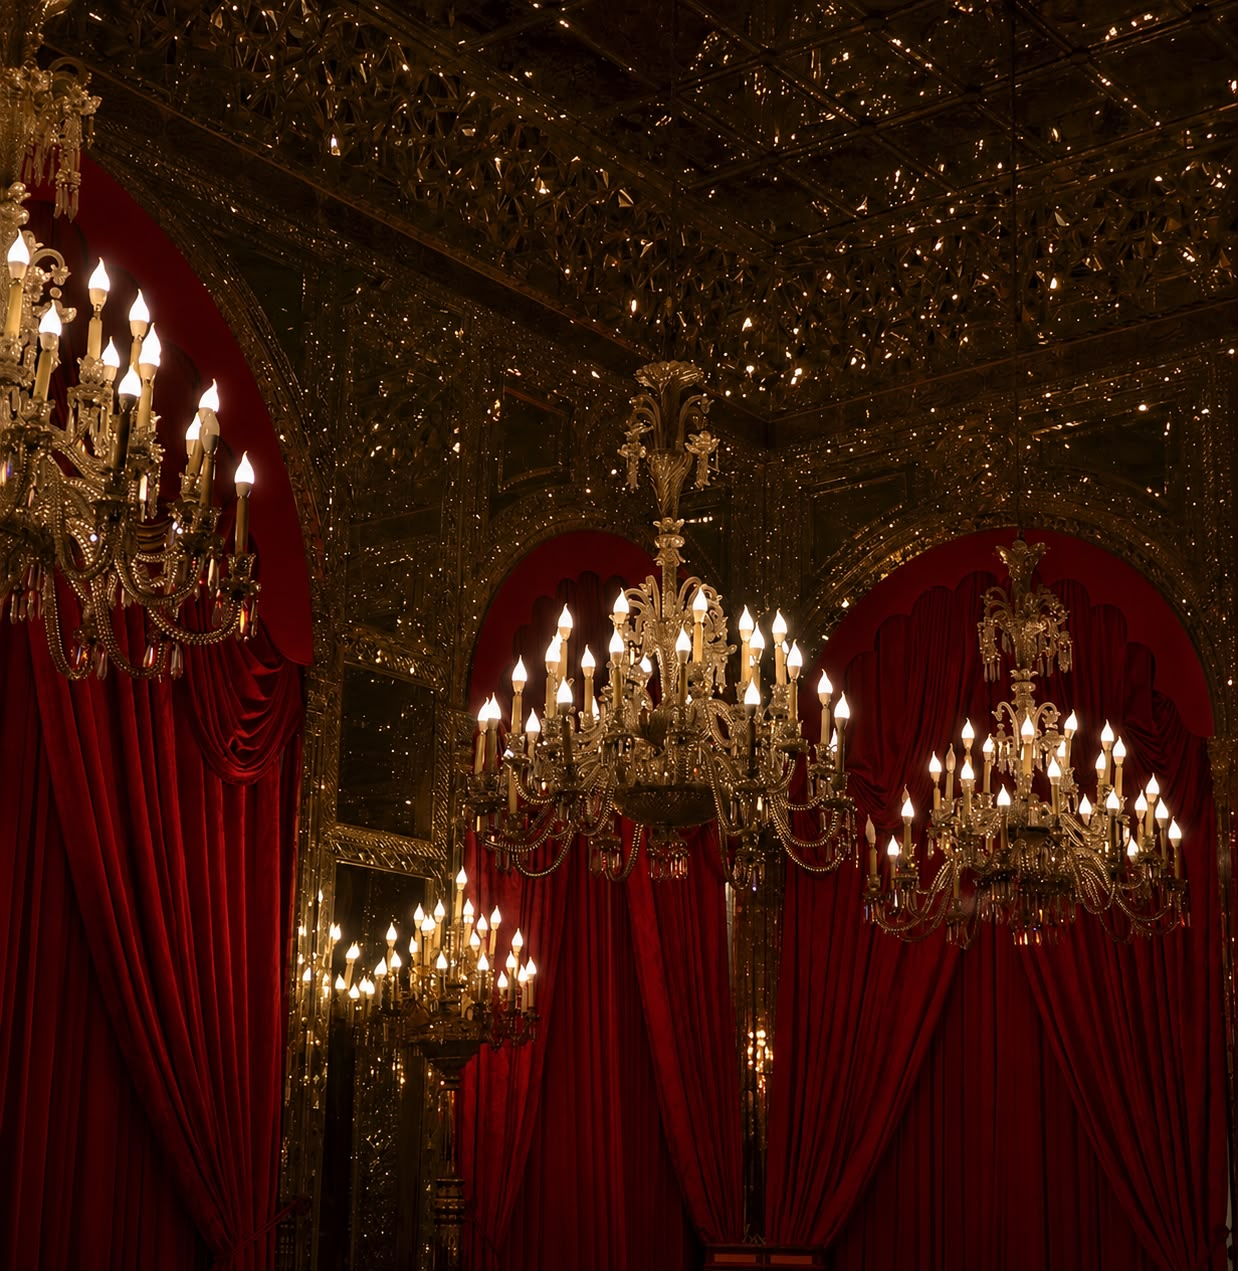
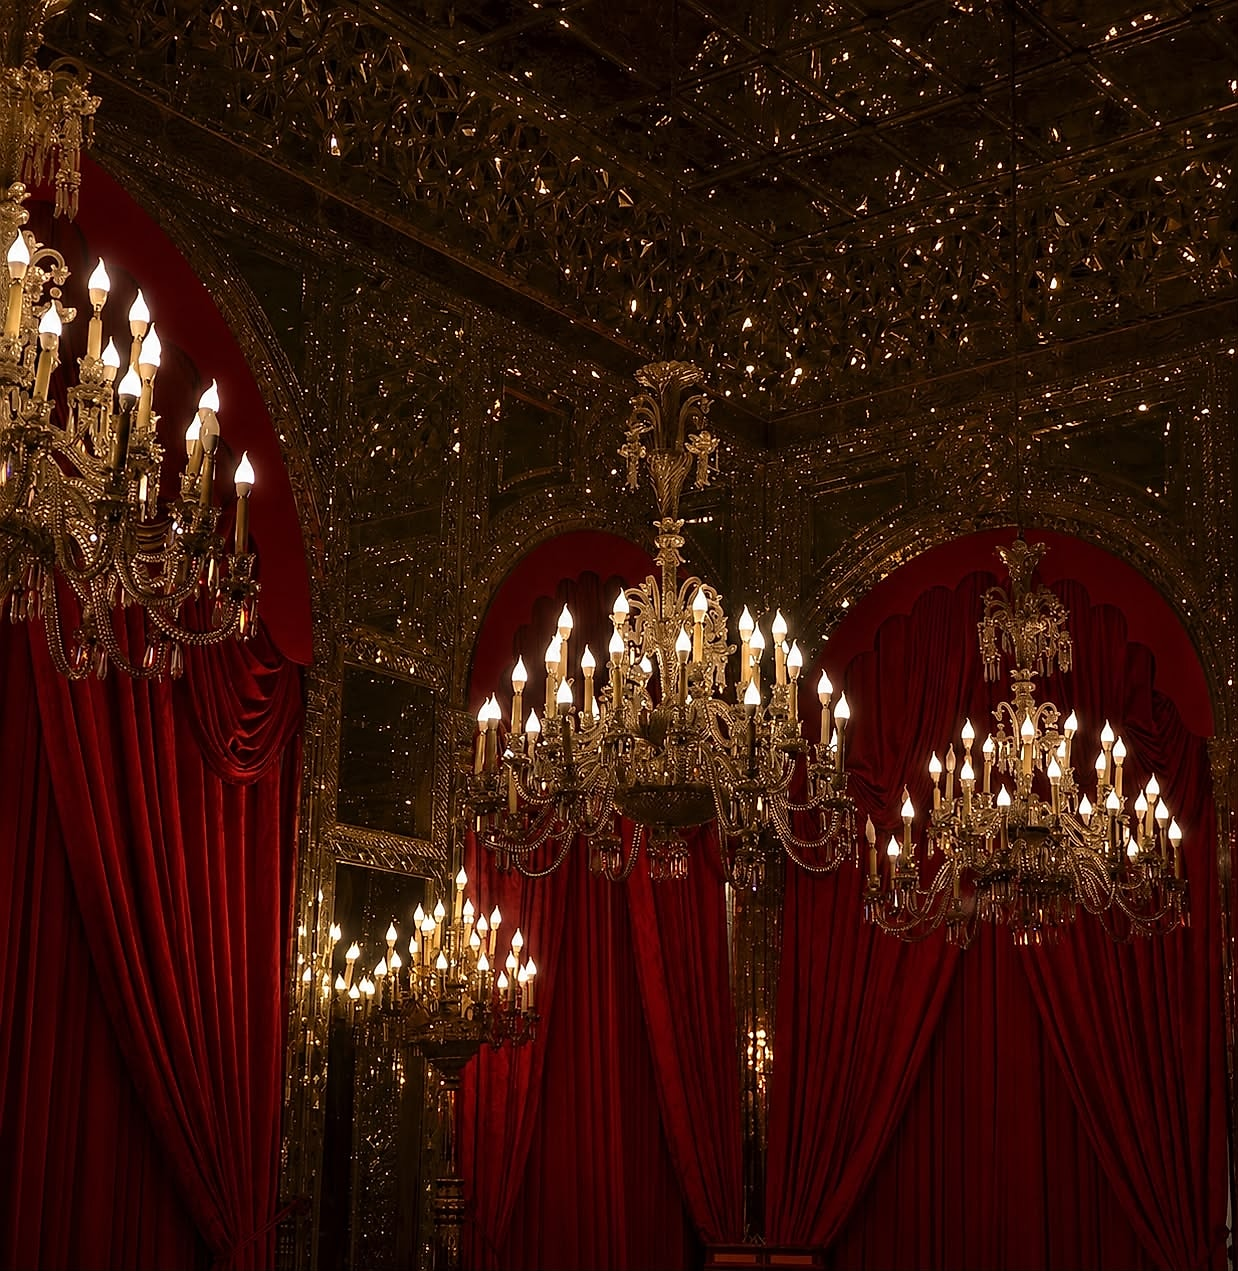
fix: sharpen hero photo + configure higher next/image quality tier
The source photo is only 1238x1271px (WhatsApp compresses on send),
so it was visibly upscaled/pixelated at full-bleed hero size. This is
a resolution ceiling, not a settings bug -- can't add detail that
isn't in the file. Did what's actually fixable in the meantime:

- Applied a mild unsharp mask (sharp) to the existing source for
  crisper edge definition without introducing halo artifacts.
- Bumped the hero Image's `quality` to 92 (was the Next.js default of
  75) so we're not stacking extra JPEG re-compression on top of an
  already-compressed source.
- Registered `images.qualities: [75, 92]` in next.config.ts -- Next.js
  15.5 warns (and 16 will hard-require) that custom quality values be
  explicitly allow-listed.

Real fix still needs the original (pre-WhatsApp-compression) photo.

diff --git a/next.config.ts b/next.config.ts
@@ -6,6 +6,9 @@ const withNextIntl = createNextIntlPlugin("./src/i18n/request.ts");
 const nextConfig: NextConfig = {
   reactStrictMode: true,
   images: {
+    // Default (75) plus a higher tier for hero/banner photography where
+    // compression artifacts are more visible at full-bleed sizes.
+    qualities: [75, 92],
     // Allow our own placeholder SVGs (trusted, first-party) through next/image.
     dangerouslyAllowSVG: true,
     contentDispositionType: "attachment",

diff --git a/src/components/home/sections/HeroCarousel.tsx b/src/components/home/sections/HeroCarousel.tsx
@@ -66,6 +66,7 @@ export function HeroCarousel({
             alt={t(b.imageAlt, locale)}
             fill
             priority={i === 0}
+            quality={92}
             sizes="100vw"
             className={cn("object-cover object-center", i === index && "motion-safe:animate-[zoom-slow_20s_ease-out_forwards]")}
           />